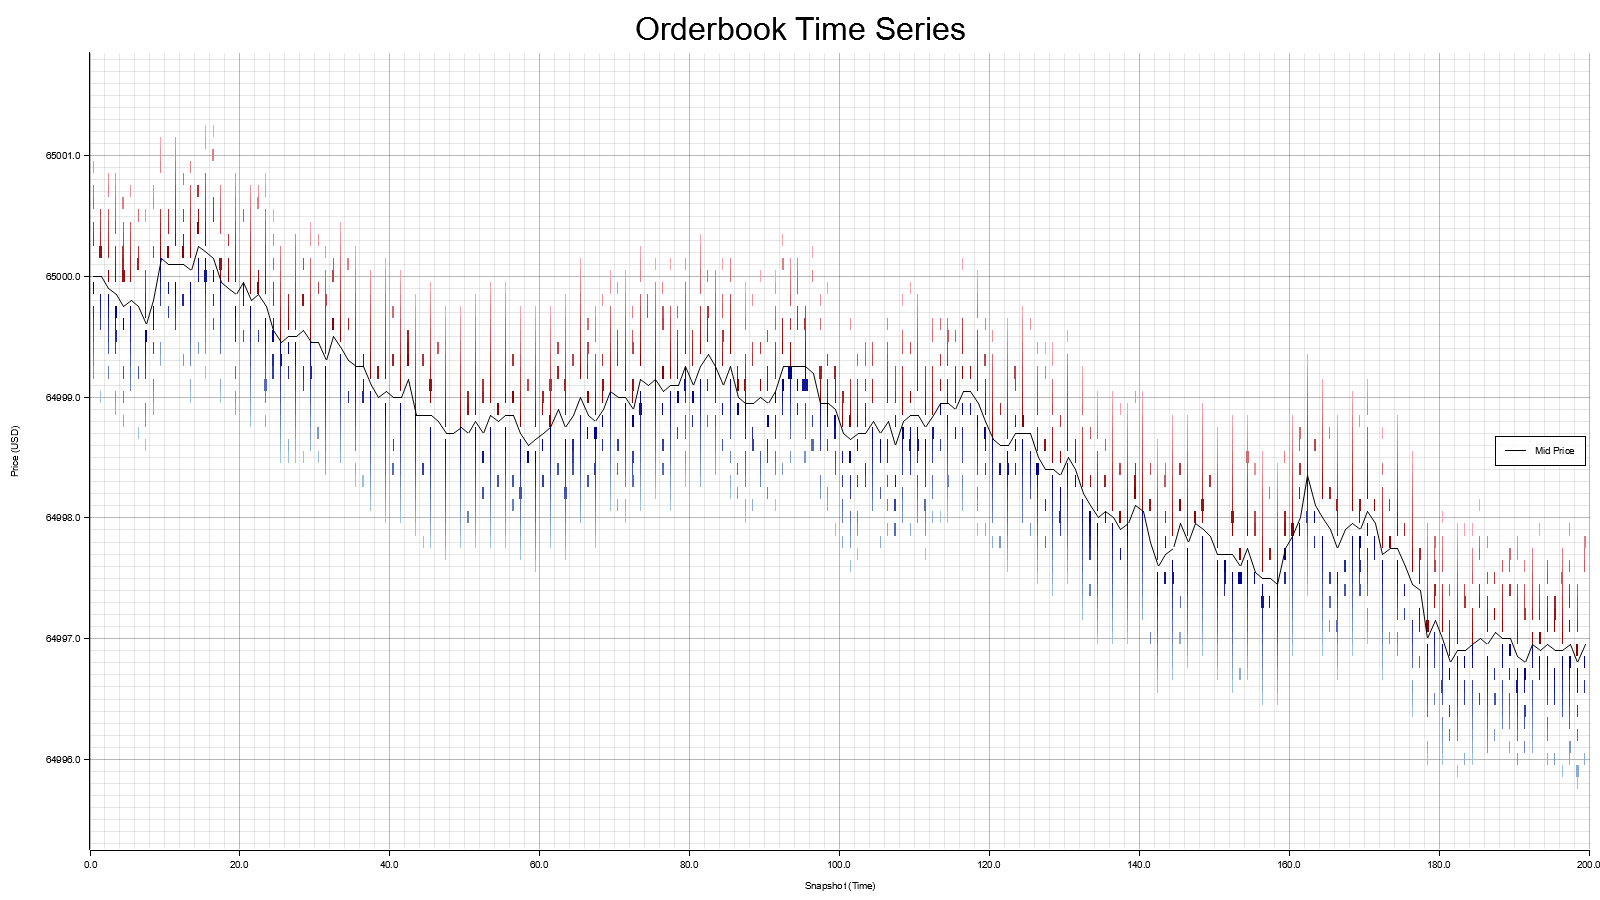
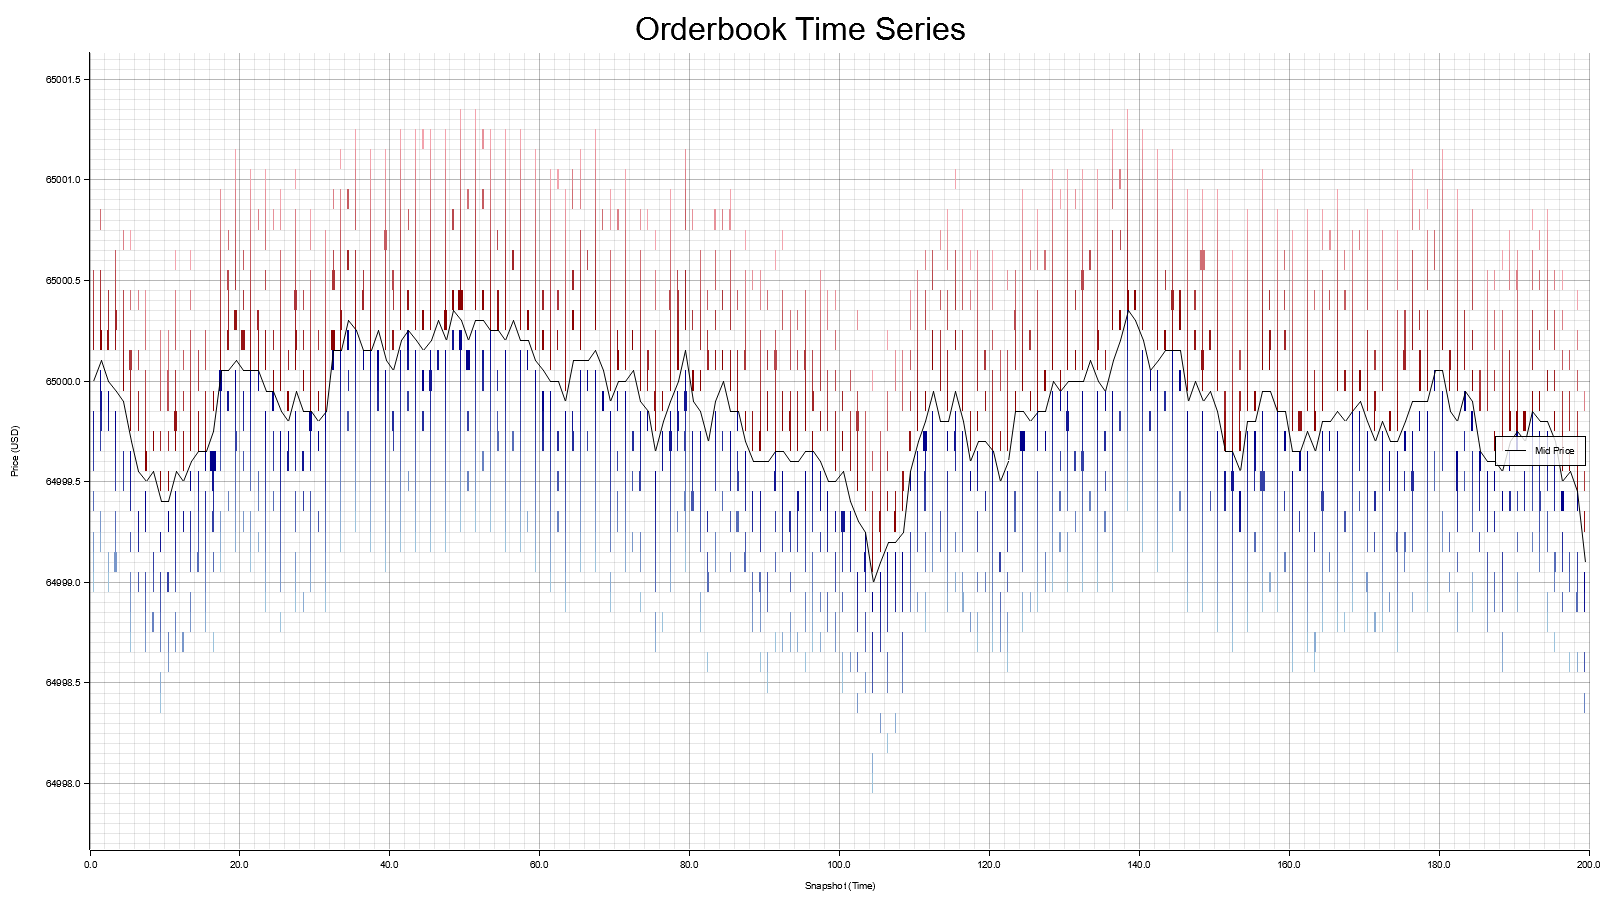
plot_orderbook update

Changed region(s): [[0.0312, 0.0622, 1.0, 0.9333]]

diff --git a/case_studies/02_hft_orderbook_rust/hft_optimization/src/bin/plot_orderbook.rs b/case_studies/02_hft_orderbook_rust/hft_optimization/src/bin/plot_orderbook.rs
@@ -1,8 +1,68 @@
-use hft_optimisation::{optimized::L2Book as OptimizedBook, suboptimal::LOBSimulator};
+use hft_optimisation::suboptimal::LOBSimulator;
+use hft_optimisation::common::messages::L2UpdateMsg;
 use plotters::prelude::*;
 use std::fs::File;
 use std::io::{BufWriter, Write};
 use std::error::Error;
+
+/// Configuration enum to easily switch between optimized and suboptimal implementations.
+///
+/// This allows you to run the same simulation with different orderbook implementations
+/// by simply changing a single line in main() without modifying any other logic.
+///
+/// Usage:
+/// - `BookType::Optimized` - High-performance implementation with optimized data structures
+/// - `BookType::Suboptimal` - Reference implementation for comparison
+#[derive(Debug, Clone, Copy)]
+#[allow(dead_code)]
+enum BookType {
+    Optimized,
+    Suboptimal,
+}
+
+/// Wrapper enum to hold either book type and provide a unified interface.
+///
+/// This enum abstracts over the two implementations and dispatches method calls
+/// to the appropriate underlying book type. This allows the simulation logic
+/// to remain identical regardless of which implementation is used.
+enum Book {
+    Optimized(hft_optimisation::optimized::L2Book),
+    Suboptimal(hft_optimisation::suboptimal::book::L2Book),
+}
+
+impl Book {
+    /// Creates a new book of the specified type with given parameters
+    fn new(book_type: BookType, tick_size: f64, lot_size: f64) -> Self {
+        match book_type {
+            BookType::Optimized => Book::Optimized(hft_optimisation::optimized::L2Book::new(tick_size, lot_size)),
+            BookType::Suboptimal => Book::Suboptimal(hft_optimisation::suboptimal::book::L2Book::new(tick_size, lot_size)),
+        }
+    }
+
+    /// Updates the orderbook with a new L2 update message
+    fn update(&mut self, upd: &L2UpdateMsg, venue: &str) {
+        match self {
+            Book::Optimized(book) => { book.update(upd, venue); },
+            Book::Suboptimal(book) => { book.update(upd, venue); },
+        }
+    }
+
+    /// Returns the top N bid levels (price_tick, quantity)
+    fn top_bids(&self, depth: usize) -> Vec<(i64, f64)> {
+        match self {
+            Book::Optimized(book) => book.top_bids(depth),
+            Book::Suboptimal(book) => book.top_bids(depth),
+        }
+    }
+
+    /// Returns the top N ask levels (price_tick, quantity)
+    fn top_asks(&self, depth: usize) -> Vec<(i64, f64)> {
+        match self {
+            Book::Optimized(book) => book.top_asks(depth),
+            Book::Suboptimal(book) => book.top_asks(depth),
+        }
+    }
+}
 
 /// Lightweight snapshot structure for plotting (avoids cloning entire L2Book)
 struct PlotSnapshot {
@@ -47,7 +107,7 @@ fn ask_color(depth_ratio: f64) -> RGBColor {
 }
 
 /// Extracts a snapshot of the book that is internally consistent (mid derived from captured BBO)
-fn capture_snapshot(book: &OptimizedBook, depth_levels: usize, tick_size: f64) -> (PlotSnapshot, BboRecord) {
+fn capture_snapshot(book: &Book, depth_levels: usize, tick_size: f64) -> (PlotSnapshot, BboRecord) {
     let top_bids = book.top_bids(depth_levels);
     let top_asks = book.top_asks(depth_levels);
 
@@ -87,6 +147,13 @@ fn capture_snapshot(book: &OptimizedBook, depth_levels: usize, tick_size: f64) -
 }
 
 fn main() -> Result<(), Box<dyn Error>> {
+    // ============================================================
+    // CONFIGURATION: Change BookType here to switch implementation
+    // ============================================================
+    // BookType::Optimized   -> Uses the high-performance optimized implementation
+    // BookType::Suboptimal  -> Uses the reference suboptimal implementation
+    let book_type = BookType::Suboptimal;
+
     // Configuration
     let num_snapshots = 200;     // Number of snapshots to capture (increased for more detail)
     let sample_every = 100;      // Take a snapshot every N updates
@@ -94,6 +161,8 @@ fn main() -> Result<(), Box<dyn Error>> {
     let output_file = "orderbook_timeseries.png";
     let bbo_log_file = "orderbook_bbo_log.csv";
 
+    println!("=== Orderbook Simulation ===");
+    println!("Implementation: {:?}", book_type);
     println!("Generating {} orderbook snapshots (1 every {} updates)...", num_snapshots, sample_every);
 
     // Custom configuration with much higher volatility for a highly visible Brownian motion
@@ -111,8 +180,8 @@ fn main() -> Result<(), Box<dyn Error>> {
     // Initialize simulator with custom configuration
     let mut sim = LOBSimulator::with_config(sim_config);
 
-    // Create a book with the same parameters
-    let mut book = OptimizedBook::new(tick_size, lot_size);
+    // Create a book with the same parameters using the selected book type
+    let mut book = Book::new(book_type, tick_size, lot_size);
 
     // Bootstrap (full book)
     let boot = sim.bootstrap_update();
